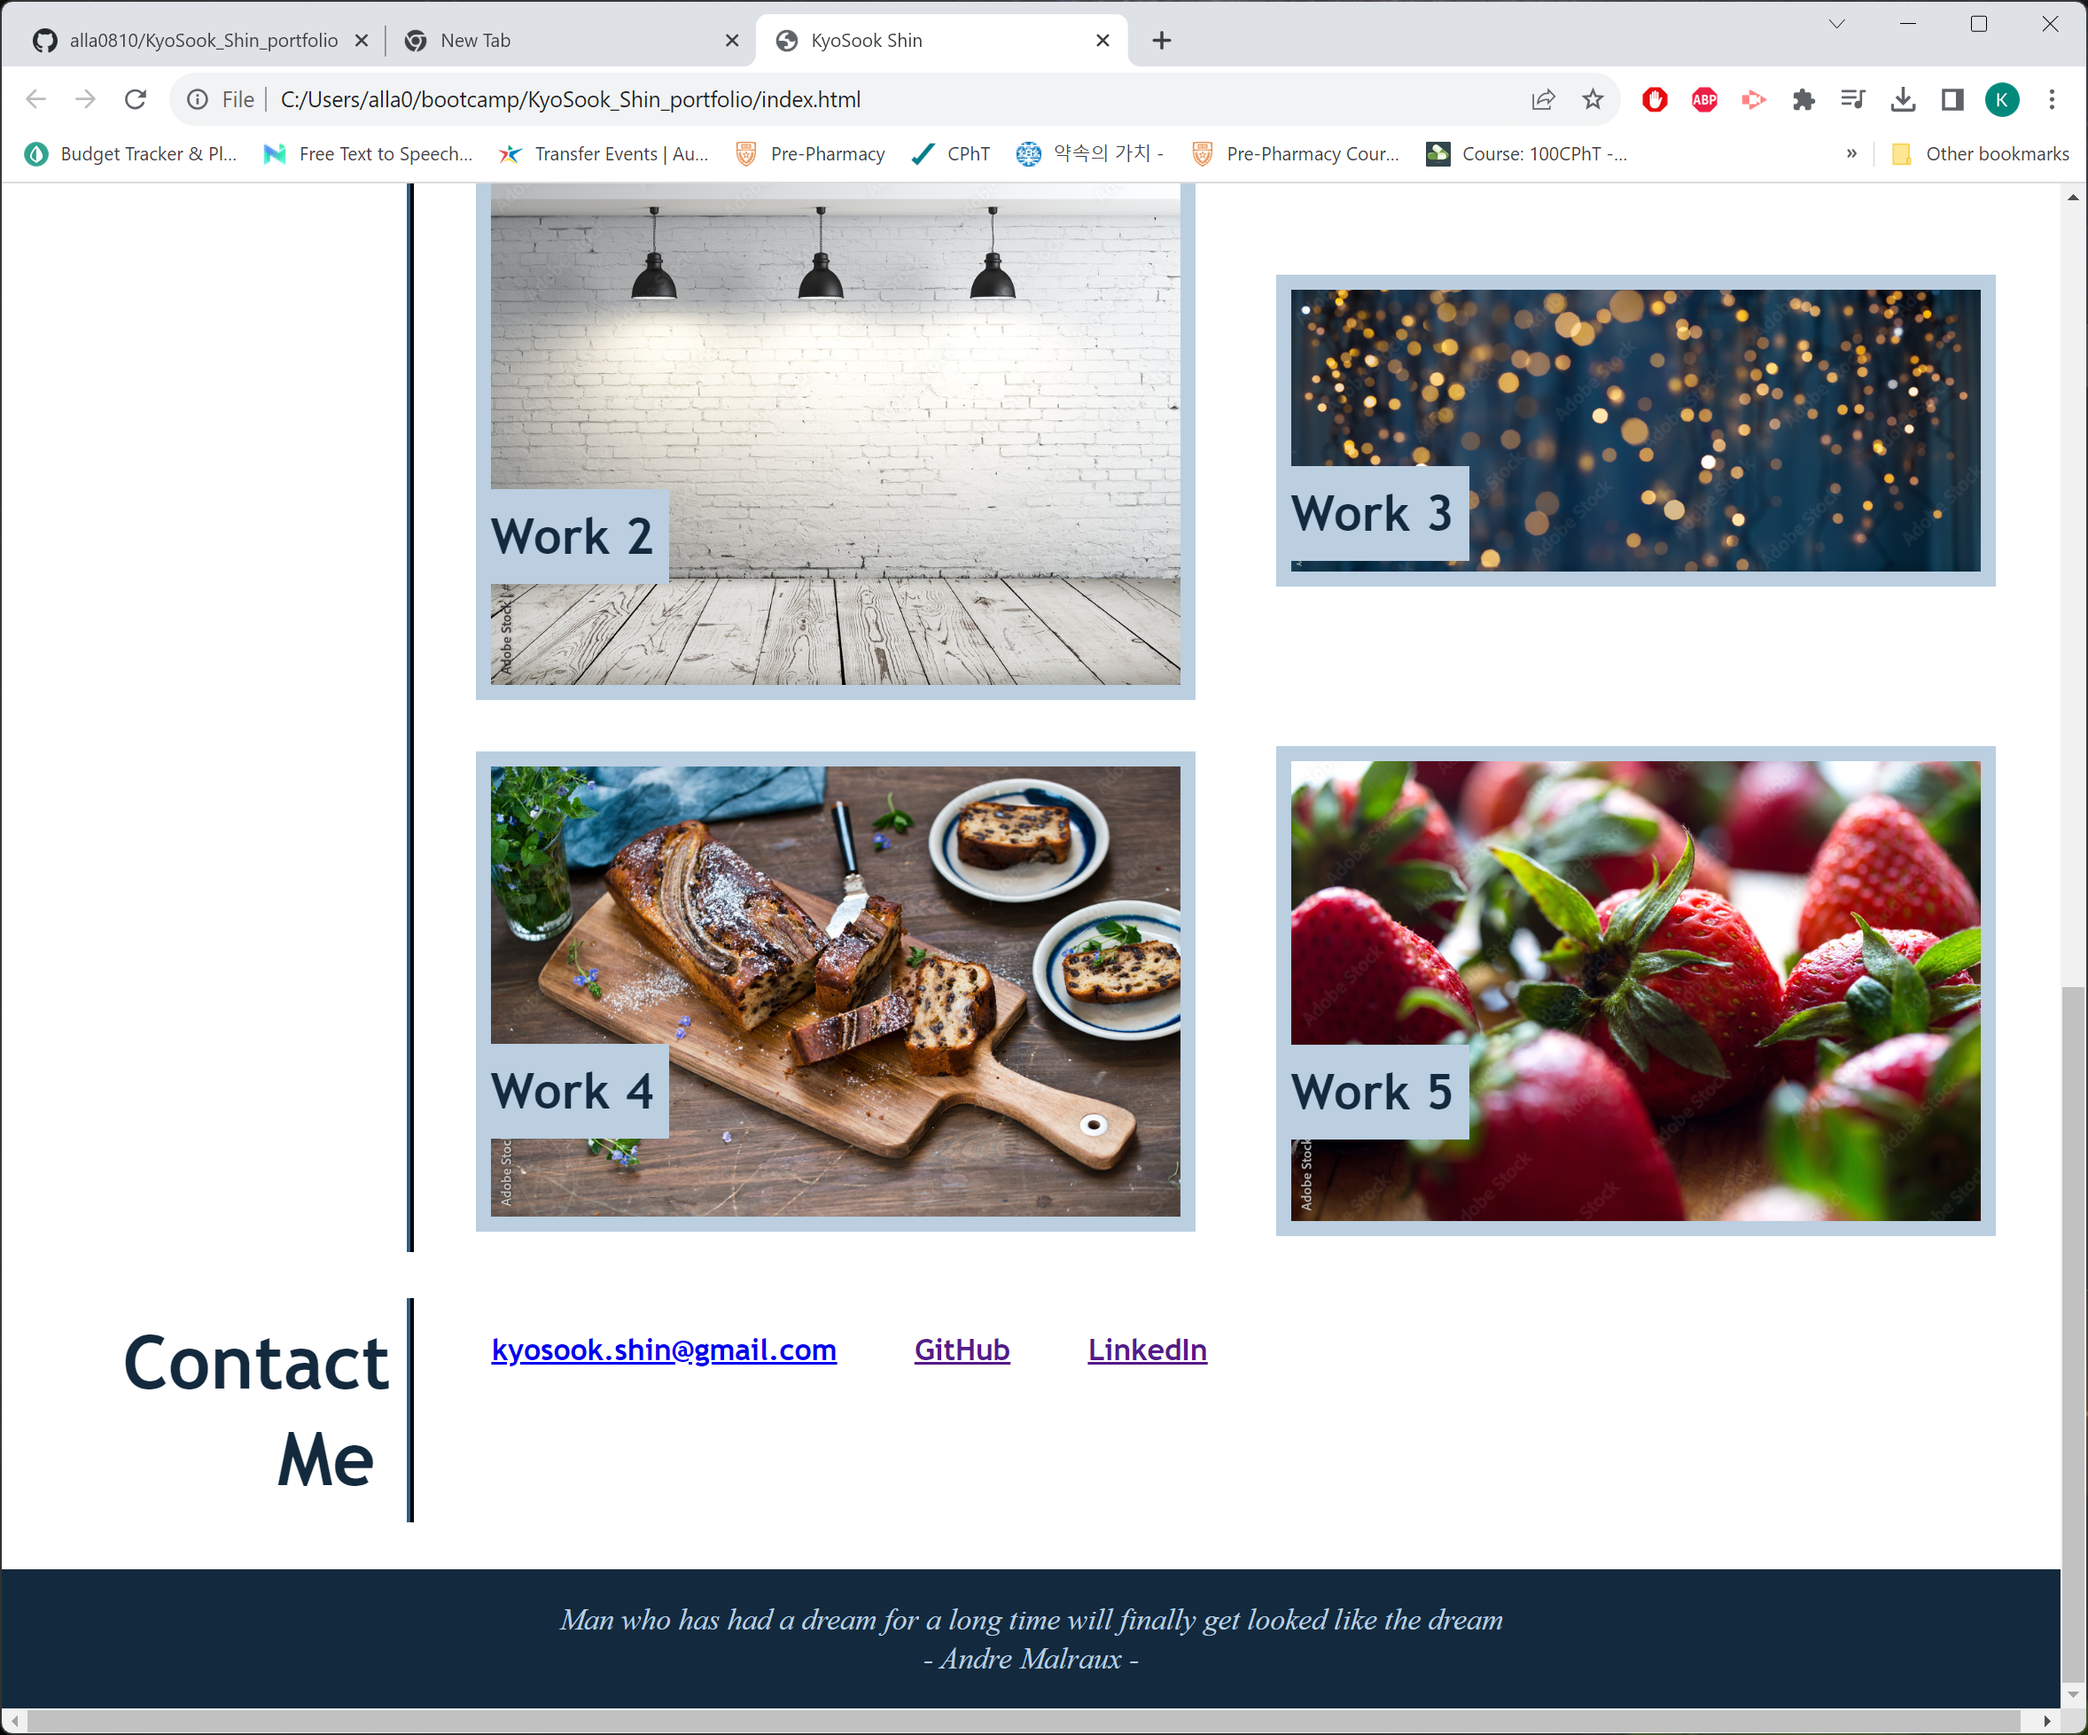
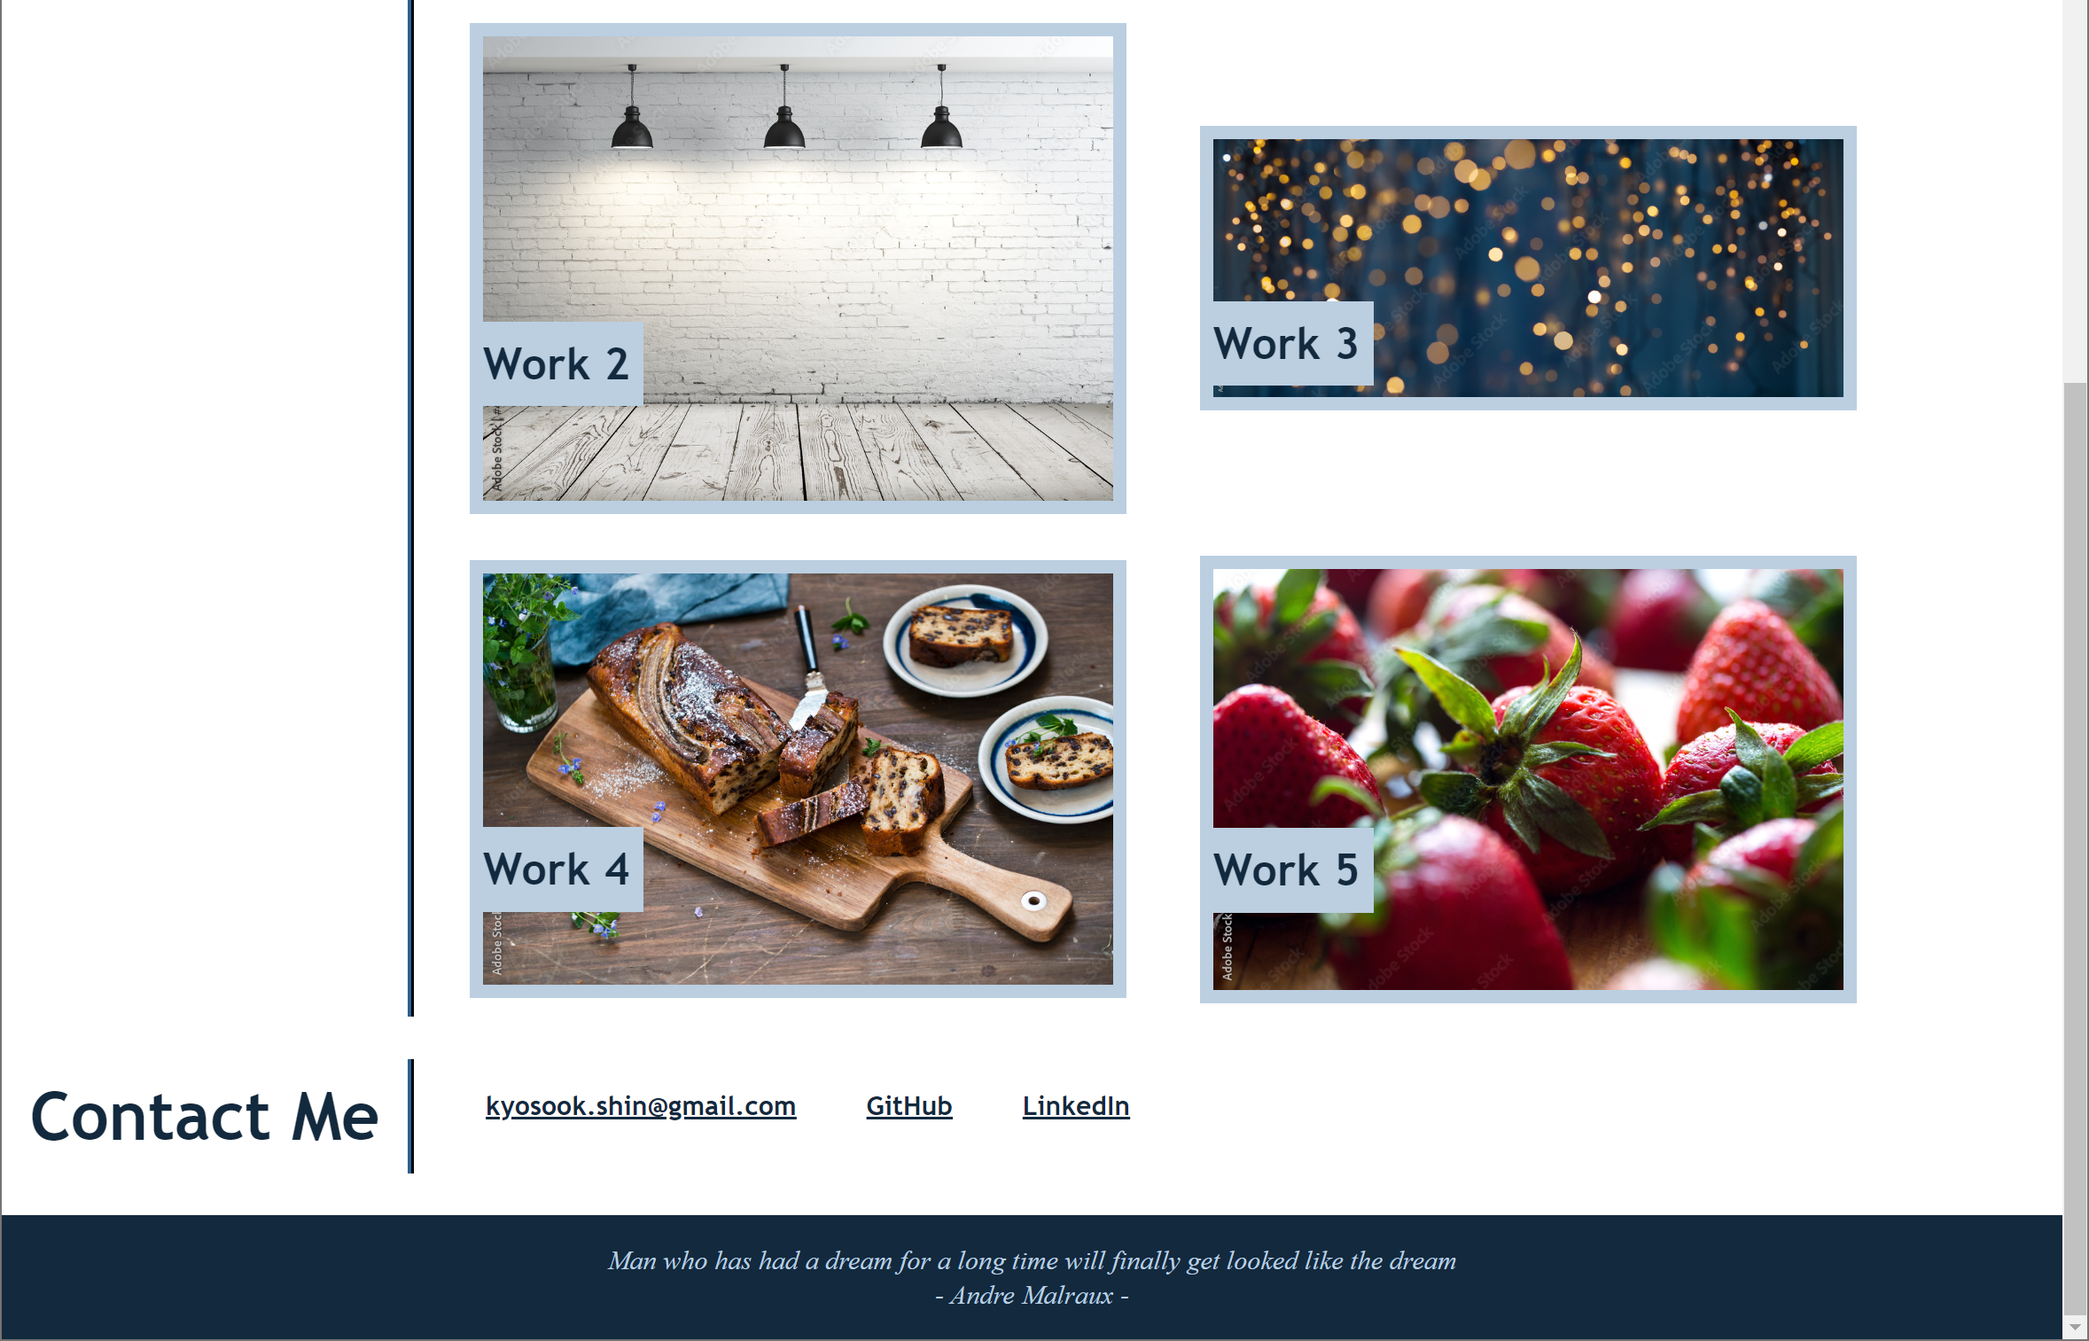
enhance responsiveness

diff --git a/assets/css/style.css b/assets/css/style.css
@@ -10,7 +10,6 @@ body {
   flex-direction: column;
   overflow-y: scroll;    
   line-height: 1.3;
-
 }
 
 header {
@@ -29,17 +28,21 @@ h1 {
   color: #13293d;
   background-color: #bbcfe1;
   font-weight: 900;
-/*  font-family: 'Times New Roman', Times, serif;*/
   padding-left: 40px;
-/*  font-style:oblique;*/
+
+  overflow: hidden;
+  text-overflow: ellipsis;
 }
 
-h2 {  
+h2 {    
   font-size: 200%;
   color: #13293d;
   background-color: #bbcfe1;
   font-weight: bold;  
   text-align: right;
+
+  text-overflow: clip;
+  overflow: hidden;
 }
 
 .background_img {
@@ -54,7 +57,6 @@ h2 {
   background-size: cover;
   background-position: center;  
 }
-
 
 nav ul {
   display: flex;
@@ -89,62 +91,9 @@ nav_text_flex_box {
   border-style: none;
 }
 
-
-main {
-  display: flex;
-  flex-wrap: wrap;
-  flex-grow: 1;
-}
-
-
-.box_left {
-  flex: 0 1 20%;
-
-  padding: 10px;
-  text-align: right;
-  border-style: none;
-  border-width: 1px;
-  flex-wrap: wrap;
-  width:30%;
-  flex-direction: column;
-
-  border-right-color: #13293d;
-  border-right-width: 5px;
-  border-right-style:ridge;
-
-  margin-bottom: 30px;
-}
-
-left_box_text {
-  font-size: 300%;
-  color: #13293d;
-  background-color: #fff;
-  font-weight: bold;
-  /*padding: 20px;*/
-  padding-right: 10px;;
-}
-
-
-.box_right {
-  flex: 0 1 80%;
- 
-  padding: 10px;
-  padding-left: 20px;
-  text-align: left;
-  border-style: none;
-  border-width: 1px;
-  flex-wrap: wrap;
-  width:80%;
-  flex-direction: column;  
-}
-
-.float-left {
-  float: left;
-  margin-right: 25px;
-}
-
 .profile_img
 {
+  display: flex;
   flex-shrink: 1;
   display: inline-block;
   max-height: 100px;
@@ -153,6 +102,72 @@ left_box_text {
   overflow:auto;
 }
 
+
+main {
+  display: flex;
+  flex-wrap: wrap;
+  flex-grow: 1;
+  flex-shrink: 1;
+}
+
+
+.box_left {
+  flex: 1 1 20%;
+  flex-wrap: nowrap;
+  flex-direction: column;
+
+  padding: 10px;
+  text-align: right;
+  border-style: none;
+  border-width: 1px;
+
+  border-right-color: #13293d;
+  border-right-width: 5px;
+  border-right-style:ridge;
+
+  margin-bottom: 30px;
+
+  min-width: auto;
+}
+
+left_box_text {
+  overflow: hidden;
+  text-overflow: ellipsis;
+
+  font-size: 300%;
+  color: #13293d;
+  background-color: #fff;
+  font-weight: bold;
+
+  padding-right: 10px;;
+}
+
+
+.box_right {
+  flex: 1 1 80%;
+  flex-wrap: nowrap;
+/*  width:80%;*/
+  flex-direction: column;  
+ 
+  padding: 10px;
+  padding-left: 20px;
+  text-align: left;
+  border-style: none;
+  border-width: 1px;
+
+  min-width: auto;
+
+  text-overflow: clip;
+  overflow: hidden;
+}
+
+/*
+.float-left {
+  float: left;
+  margin-right: 25px;
+}
+*/
+
 .app_large_img
 {
   flex-shrink: 1;
@@ -160,7 +175,7 @@ left_box_text {
   justify-content: center;
   align-items: center;
 
-  width: 100%;
+  width: 70vw;
   
   margin-left: 20px;
   /*margin-right: 50px;  */
@@ -178,7 +193,7 @@ left_box_text {
   flex-direction:row;
   justify-content: center;
   align-items: center;
-  width: 100%;
+  width: 70vw;
   
 /*  height: 100vh;*/
   margin: 0 auto;
@@ -199,8 +214,8 @@ left_box_text {
 .app_each_small_img
 {
   width: 90%;
-  flex-wrap: wrap;
-  text-align: center;
+  flex-wrap: nowrap;
+  text-align: left;
   border: 10px solid #bbcfe1;  
 }
 
@@ -216,17 +231,18 @@ contact_frame {
   margin-left: 20px;  
 }
 
-contact_frame ul2 {
+contact_frame ul {
   display: flex;
   justify-content: space-between;
 }
 
-contact_frame b {
+contact_frame a {
   color:   #13293d;;
   text-decoration: underline;
   justify-content: space-between;  
   font-size: 120%;
   margin-right: 50px;  
+  font-weight: bold;  
 }
 
 
@@ -246,25 +262,41 @@ footer {
   margin-left: 20px;
 }
 
-/* Added rotation, box-shadow, border-radius */
+
 .row_title {
   position: absolute;
   z-index: 2;
   top: 60%;
 
   color: #bbcfe1;
-  flex-wrap: wrap;
+  flex-wrap: nowrap;
   text-align: center;
   border: 10px solid #bbcfe1;    
+
+  color: #13293d;
+  background-color: #bbcfe1;
+  text-align: left;
+
+  text-overflow: clip;
+  overflow: hidden;
+
 }
 
-/* Added border-radius to match the card */
+
 
 p1 {
-  text-align: left;
+/*  text-align: left;*/
   font-size: 120%;
   color: #13293d;
-  margin-left: 20px;  
+  text-align: initial;
+/*  margin-left: 20px;  */
+  padding-left: 20px;
+  text-indent: -20px;
+
+  overflow: hidden;
+  text-overflow: ellipsis;
+
+/*  text-indent: 40px hanging;*/
 }
 
 p2 {
@@ -280,4 +312,14 @@ p3 {
   font-size: 120%;
   color: #13293d;
   background-color: #bbcfe1;  
+}
+
+dd
+{
+  font-size: 120%;
+  color: #13293d;
+  padding-left: 20px;  
+
+  overflow: hidden;
+  text-overflow: ellipsis;
 }

diff --git a/index.html b/index.html
@@ -38,9 +38,12 @@
       </section>
 
       <section class="box_right">
-        <p1>
-          Under professional training at UT Boot Camp.
-        </p1>
+        <dd>
+          Under professional development at UT Boot Camp to equip with Web programming skills to return to work. 
+          <br>    
+          Embedded software engineer with 15+ years of work experience.      
+        </dd>
+       
       </section>
 
     <section id = "Section_Work" class="box_left">
@@ -55,7 +58,8 @@
             <a href="https://alla0810.github.io/module1-hw/"><img src="./assets/images/digital-marketing-meeting.jpg" alt = "Horiseon Landing Page" class = "app_large_img"></a>
           </figure>
           <div class = "margin_20px row_title">
-            <h2>Horisen Digital Marketting Landing Page</h2>
+            <h2>Horiseon Digital Marketting Landing Page</h2>
+            <p1>Refactoring to add accessibility</p1>
           </div>
         </div>
 
@@ -109,11 +113,11 @@
     </section>
     <section class="box_right">
       <contact_frame>
-        <ul2>
-          <b><a href="mailto:kyosook.shin@gmail.com">kyosook.shin@gmail.com</a></b>
-          <b><a href="https://github.com/alla0810/">GitHub</a></b>
-          <b><a href="https://www.linkedin.com/in/kyosook-shin/">LinkedIn</a></b>
-        </ul2>
+        <ul>
+          <a href="mailto:kyosook.shin@gmail.com">kyosook.shin@gmail.com</a>
+          <a href="https://github.com/alla0810/">GitHub</a>
+          <a href="https://www.linkedin.com/in/kyosook-shin/">LinkedIn</a>
+        </ul>
       </contact_frame>
     </section>
 
@@ -129,11 +133,6 @@
           - Andre Malraux -
         </p2>
 
-
-  </footer>
-
-
+      </footer>
   </body>
-
-
 </html>
